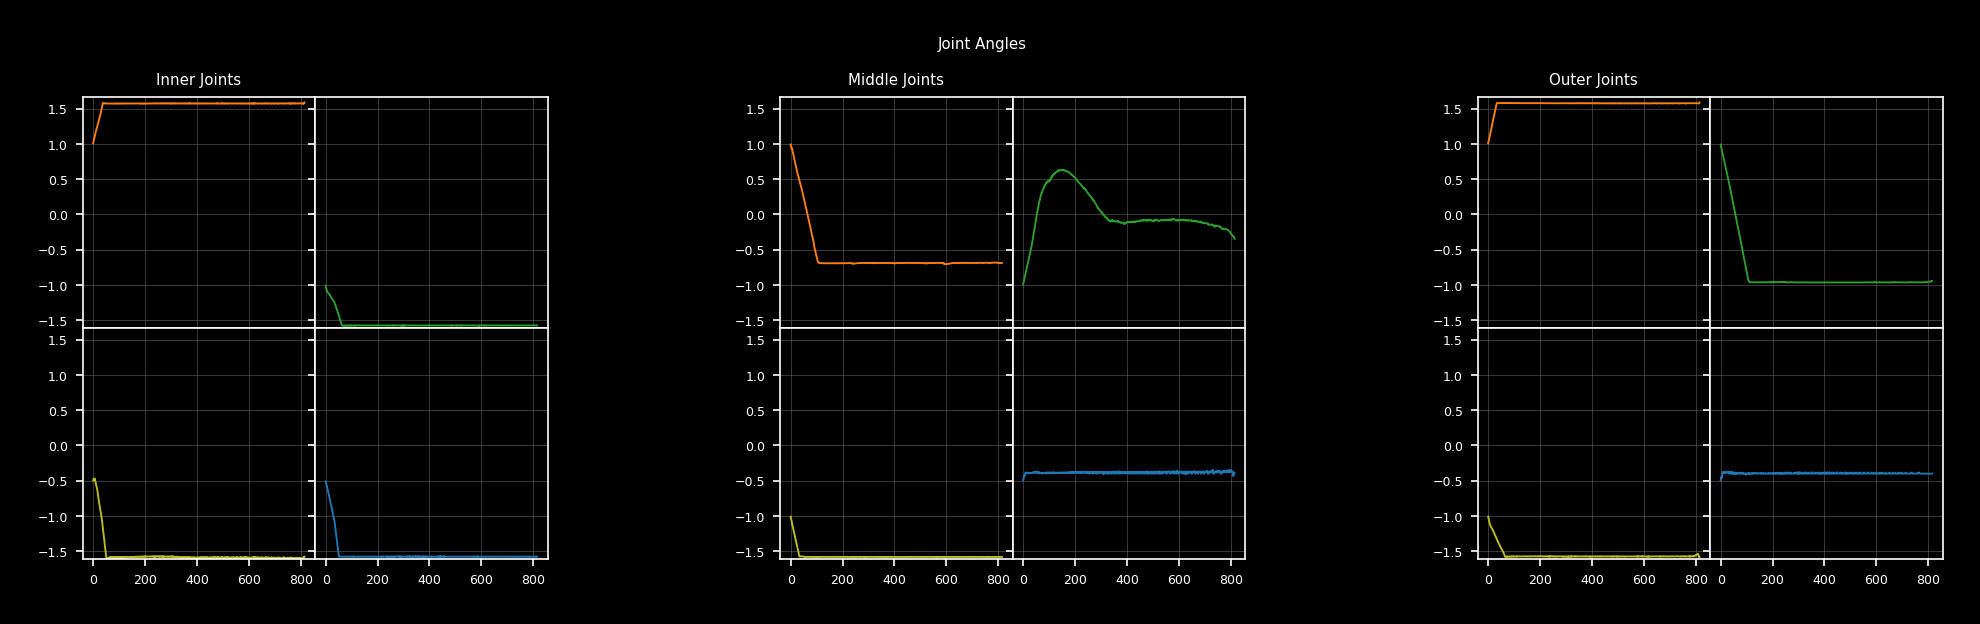
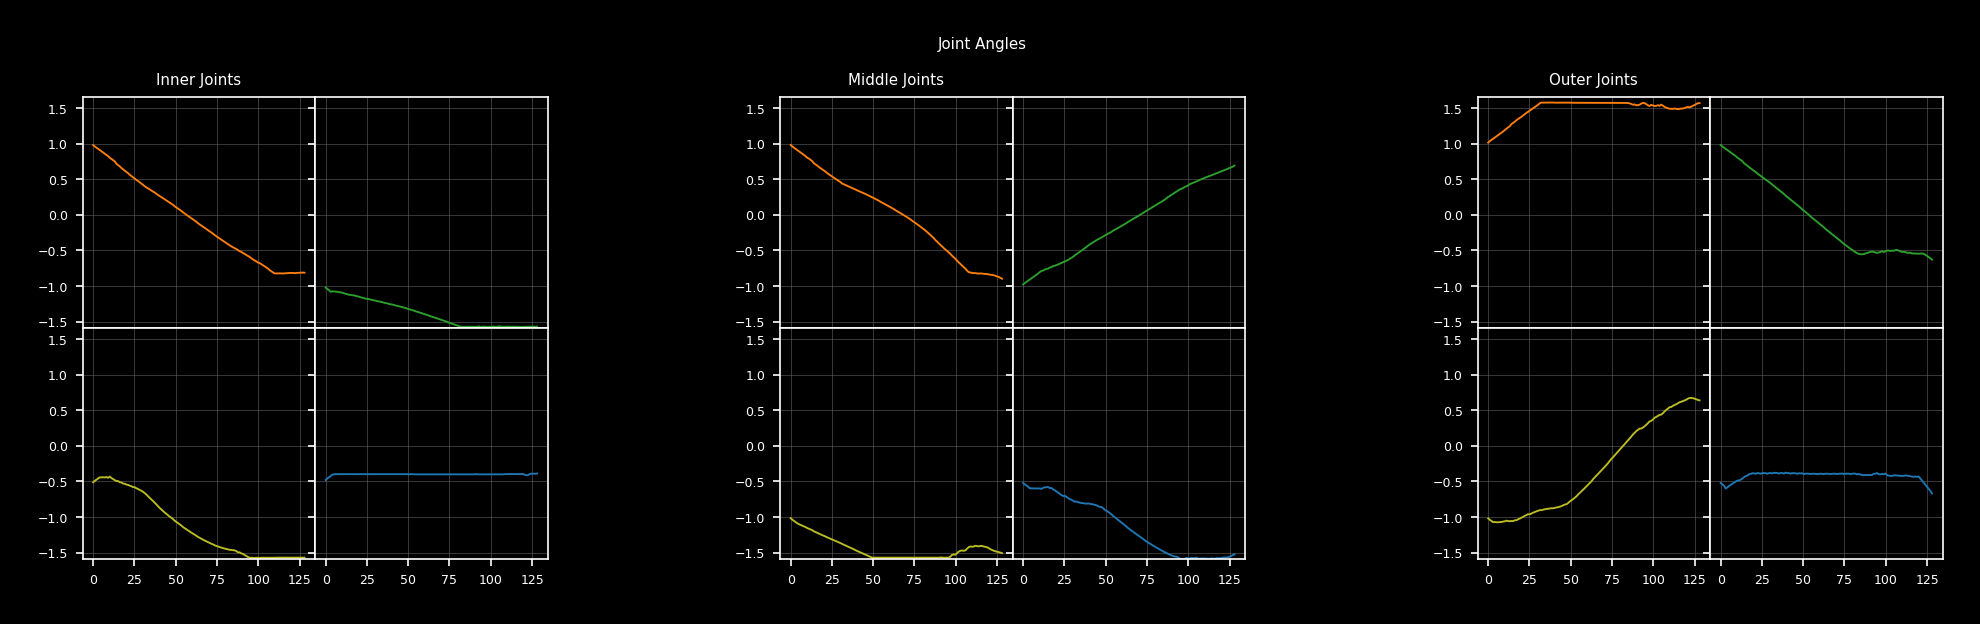
using experimental new reward

diff --git a/driver.py b/driver.py
@@ -34,6 +34,7 @@ class Driver:
             'spider-urdf': os.path.join(self.cwd, 'urdfs', 'spider_bot_v2.urdf')
         }
         self.model_name = None
+        self.fitnesses = []
 
     def run(self) -> None:
         self.modes[self.mode]()
@@ -110,10 +111,13 @@ class Driver:
                 
         except KeyboardInterrupt:
             env.close()
-        fitness = self.calc_fitness(rewards, i)
+        rising_edges = env.rising_edges
+        #fitness = self.calc_fitness(rewards, i, rising_edges)
+        fitness = self.calc_fitness(env.spider.get_pos(), env.initial_position, rising_edges)
         if verbose:
             ic('Done!')
             ic(fitness)
+            ic(rising_edges)
         if eval:
             self.graph_eval_data(
                 np.array(joint_pos).T,
@@ -134,9 +138,18 @@ class Driver:
         normal_vel = vel / env.max_spider_vel
         return np.array([*normal_joint_pos, *normal_joint_vel, *normal_orientation, *normal_vel])
 
+    
+    #def calc_fitness(rewards: list, steps: int, rising_edges: np.array) -> float:
     @staticmethod
-    def calc_fitness(rewards: list, steps: int) -> float:
-        return sum(rewards)
+    def calc_fitness(current_pos: np.array, initial_pos: np.array, rising_edges: np.array) -> float:
+        """
+        adding 0.5 to tone down the extremity of a good or bad 
+        distribution -- distance should matter as well 
+        (maybe worth testing different values)
+
+        """
+        return np.linalg.norm((current_pos - initial_pos)[:2]) * (1 / ((np.std(rising_edges) / np.mean(rising_edges)) + 0.5)) 
+        
 
     def save_model(self, model) -> None:
         with open(os.path.join(self.paths['models'], self.model_name), 'wb') as f:

diff --git a/spider_bot/environments.py b/spider_bot/environments.py
@@ -39,7 +39,8 @@ class SpiderBotSimulator(Env):
         
         self.camera = Camera(self.physics_client, initial_pos = spider_pos)
         self.camera_tracking = False
-        
+        self.prev_cd = [True, True, True, True]
+        self.rising_edges = np.array([0, 0, 0, 0], dtype = int)
         self.action_space = spaces.Box(
             low = np.full(12, -1),
             high = np.full(12, 1)
@@ -91,9 +92,15 @@ class SpiderBotSimulator(Env):
         self.i += 1
 
         observation = self.get_observation()
-        reward = self.get_prop_vel_proj_score_gait_monitor()
+        reward = 0#self.get_prop_vel_proj_score()
         done = self.is_terminated()
         info = self.get_info()
+
+        cd = info['contact-data']
+        for i in range(len(cd)):
+            if cd[i] == False and self.prev_cd[i] == True:
+                self.rising_edges[i] += 1
+        self.prev_cd = cd
         
         self.spider.clamp_joints(verbose=False)
         #self.spider.debug_joints(verbose=False)
